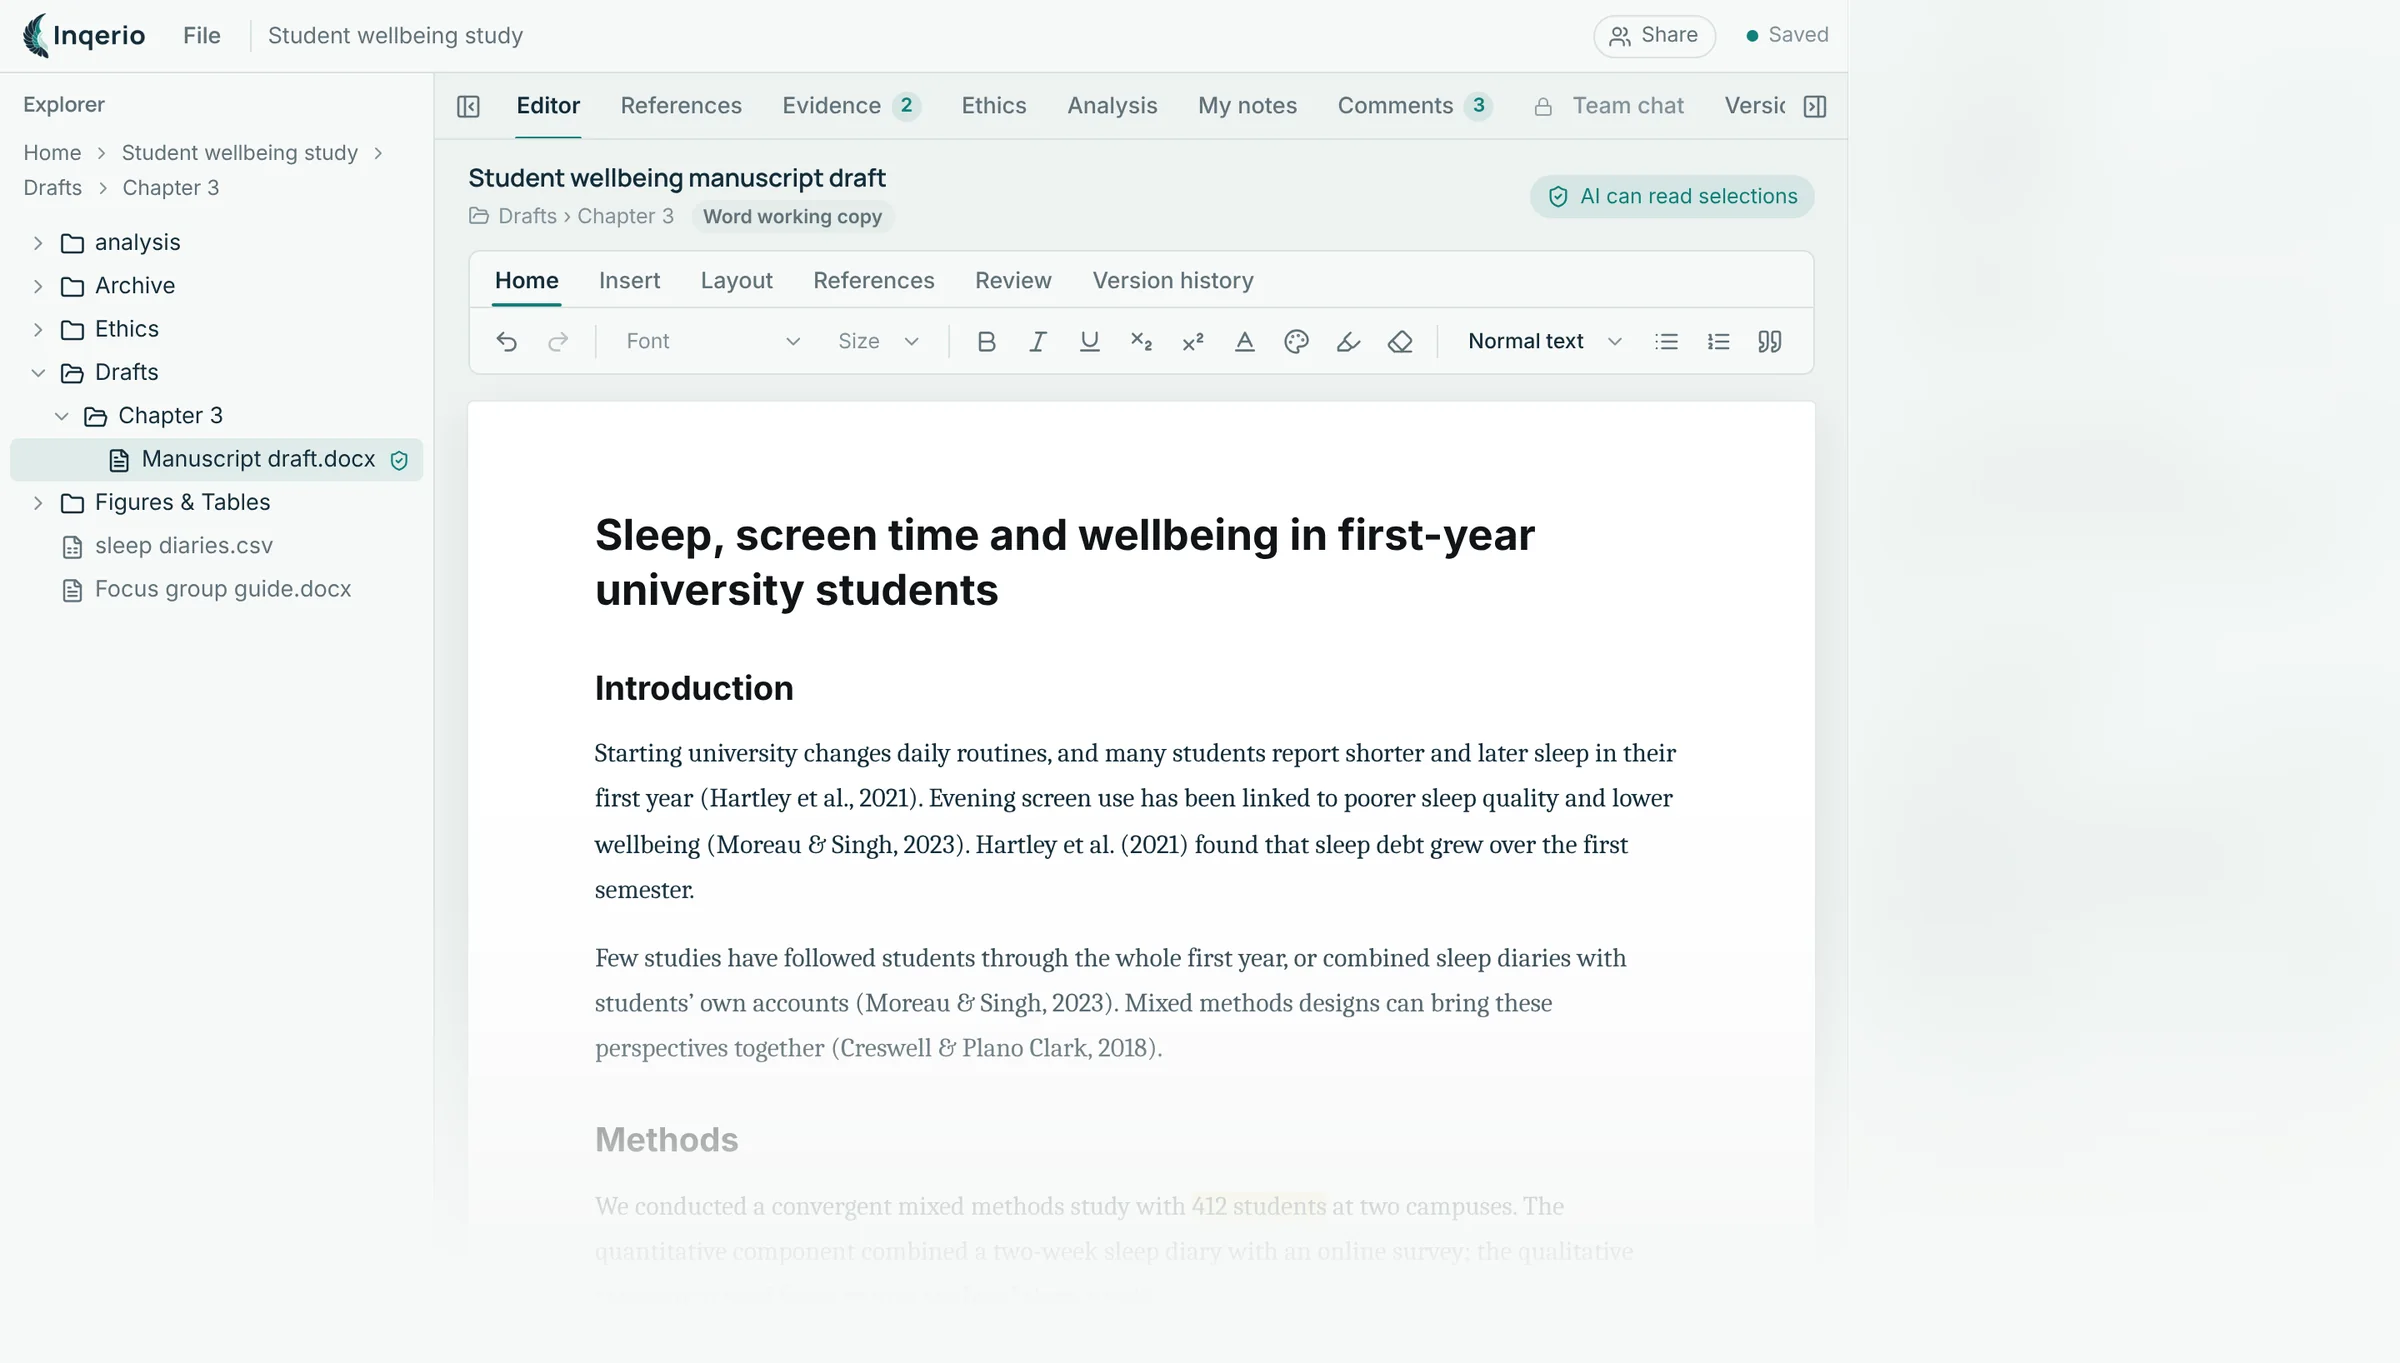
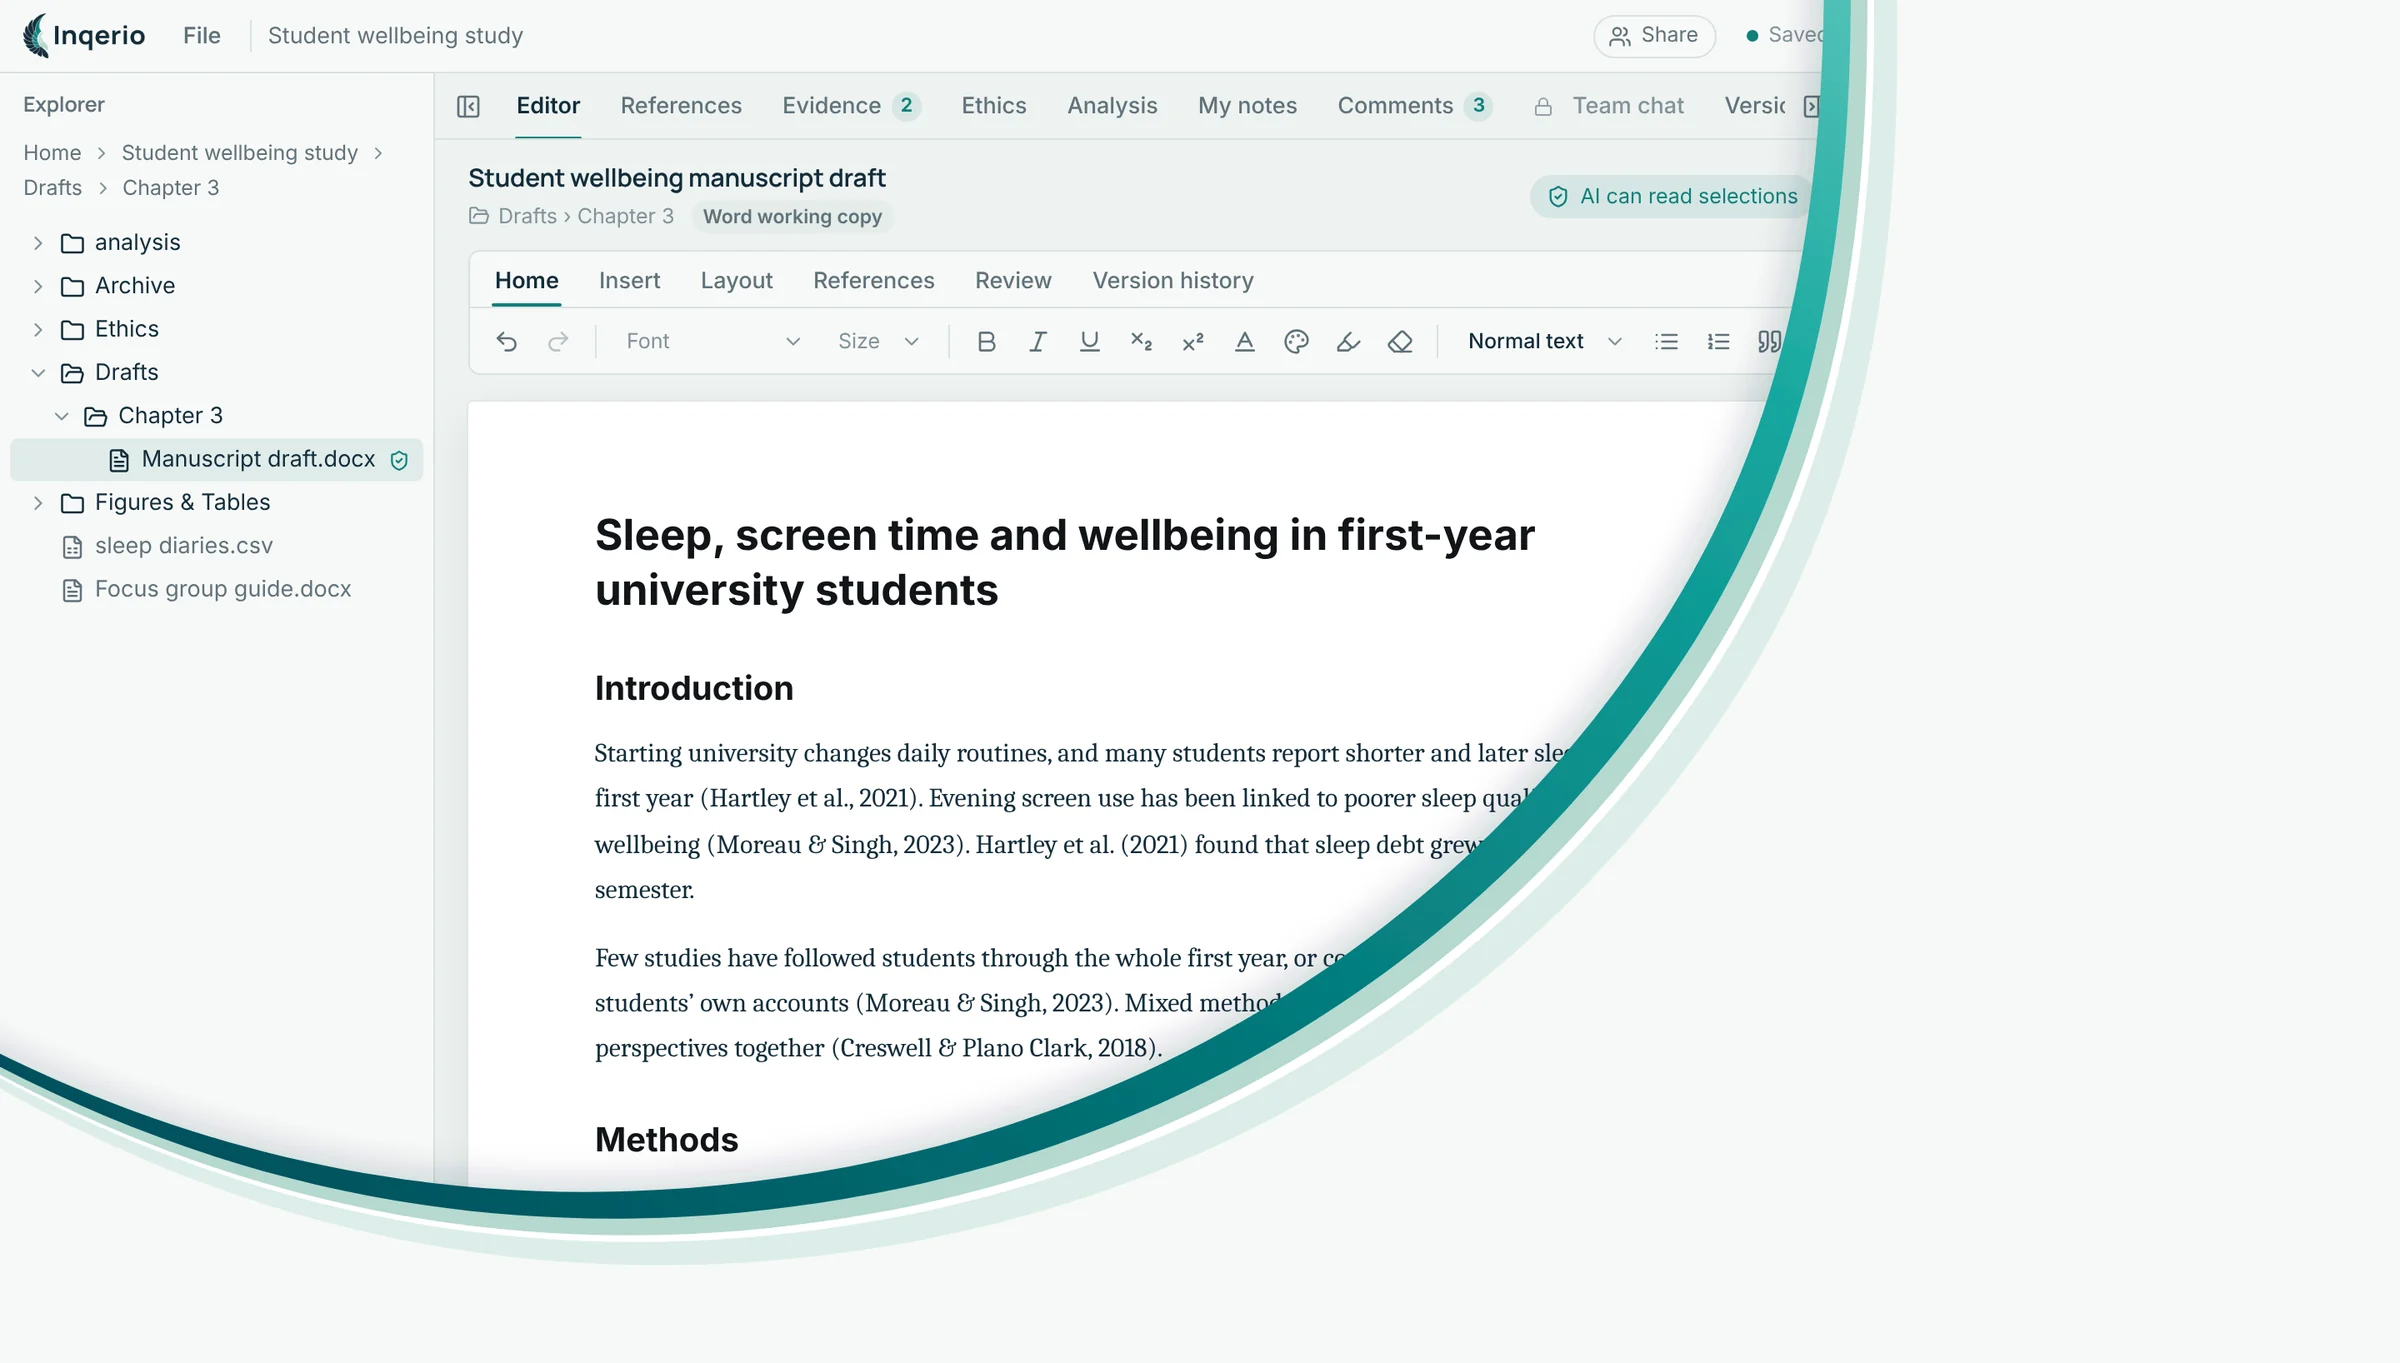
Brand curve over the screenshot

Changed region(s): [[0.0, 0.0, 0.7812, 0.9244], [0.25, 0.6779, 0.3438, 0.7087], [0.375, 0.6779, 0.4062, 0.7087]]

diff --git a/assets/site.css b/assets/site.css
@@ -204,7 +204,7 @@ strong { font-weight: 600; color: var(--navy); }
 .band { position: relative; background: var(--navy); color: #d3e1de; padding: clamp(72px, 9vw, 112px) 0; }
 .band::after { content: ''; position: absolute; left: 0; right: 0; bottom: 0; height: 3px; background: var(--gradient); }
 .band-in { display: grid; grid-template-columns: 1fr 1fr; gap: clamp(40px, 7vw, 112px); align-items: start; }
-.band h2 { color: #fff; font-size: clamp(2.2rem, 4vw, 3.2rem); }
+.band h2 { color: #fff; }
 .band p { font-size: 1.1rem; color: #cfdeda; max-width: 44ch; }
 .band a { color: var(--sage); }
 .band a:hover { color: #fff; }
@@ -232,7 +232,7 @@ strong { font-weight: 600; color: var(--navy); }
 
 .table-wrap { margin-top: 72px; overflow-x: auto; }
 .compare { width: 100%; border-collapse: collapse; font-size: 0.97rem; }
-.compare caption { text-align: left; font-family: var(--serif); font-size: 1.9rem; color: var(--navy); padding-bottom: 18px; }
+.compare caption { text-align: left; font-family: var(--serif); font-size: clamp(1.9rem, 3.2vw, 2.6rem); font-weight: 500; line-height: 1.1; letter-spacing: -0.012em; color: var(--navy); padding-bottom: 18px; }
 .compare th, .compare td { padding: 14px 16px; border-bottom: 1px solid var(--rule); text-align: center; }
 .compare thead th { border-bottom: 1px solid var(--navy); font-weight: 600; color: var(--navy); font-size: 0.92rem; }
 .compare thead th:not(:first-child) { width: 100px; }
@@ -256,12 +256,14 @@ strong { font-weight: 600; color: var(--navy); }
 .cta { background: var(--navy); position: relative; }
 .cta::before { content: ''; position: absolute; inset: 0 0 auto; height: 3px; background: var(--gradient); }
 .cta-in { padding: clamp(64px, 8vw, 96px) 0; display: grid; grid-template-columns: 1fr auto; grid-template-areas: 'h a' 'p a'; gap: 6px 48px; align-items: center; }
-.cta h2 { grid-area: h; color: #fff; margin: 0; font-size: clamp(2rem, 3.6vw, 2.8rem); }
+.cta h2 { grid-area: h; color: #fff; margin: 0; }
 .cta p { grid-area: p; color: #b9cdc9; margin: 0; font-size: 1.05rem; }
 .cta .actions { grid-area: a; }
 
 /* Page heads and legal pages */
-.page-head { padding: clamp(56px, 7vw, 88px) 0 28px; border-bottom: 1px solid var(--navy); }
+.page-head { padding-top: clamp(56px, 7vw, 88px); }
+/* The rule under a page title stops at the content edges, like the rule under section headings. */
+.page-head .wrap { padding-bottom: 28px; border-bottom: 1px solid var(--navy); }
 .page-head h1 { margin-bottom: 14px; }
 .page-head .lead { color: var(--quiet); font-size: 1.08rem; margin: 0; }
 .legal-layout { display: grid; grid-template-columns: 220px minmax(0, 1fr); gap: clamp(40px, 6vw, 96px); align-items: start; }
@@ -277,10 +279,9 @@ strong { font-weight: 600; color: var(--navy); }
 .note { font-size: 0.95rem; color: var(--text); background: rgba(181, 216, 208, 0.3); padding: 14px 18px; border-left: 2px solid var(--teal); }
 .contact-grid { display: grid; grid-template-columns: repeat(3, 1fr); column-gap: 48px; }
 .contact-grid > div { padding-top: 26px; border-top: 1px solid var(--rule); }
-.contact-grid h2 { font-size: 1.6rem; }
+.contact-grid h2 { font-size: 1.65rem; }
 .contact-grid .btn { white-space: normal; text-align: center; }
-.message { max-width: 680px; }
-.message .lead { margin-bottom: 1em; }
+.message { max-width: 68ch; }
 .message .actions { margin-top: 28px; }
 
 /* Footer */
@@ -310,7 +311,7 @@ strong { font-weight: 600; color: var(--navy); }
   .plan:first-child { border-top: 0; }
   .legal-layout { grid-template-columns: 1fr; }
   .toc { position: static; }
-  .contact-grid { grid-template-columns: 1fr; }
+  .contact-grid { grid-template-columns: 1fr; row-gap: 8px; }
   .cta-in { grid-template-columns: 1fr; grid-template-areas: 'h' 'p' 'a'; }
   .cta .actions { margin-top: 20px; }
   .foot-grid { grid-template-columns: 1fr 1fr; }
@@ -356,17 +357,17 @@ strong { font-weight: 600; color: var(--navy); }
   .plan-price { font-size: 2.7rem; }
   .table-wrap { margin-top: 56px; }
   .compare { font-size: 0.9rem; }
-  .compare caption { font-size: 1.6rem; }
   .compare th, .compare td { padding: 12px 6px; }
   .compare thead th:not(:first-child) { width: 50px; }
   .faq { margin-top: 64px; }
   .faq summary { font-size: 1.15rem; padding: 18px 0; }
   .cta-in { padding: 56px 0; }
-  .page-head { padding: 40px 0 22px; }
+  .page-head { padding-top: 40px; }
+  .page-head .wrap { padding-bottom: 22px; }
   .page-head h1 { font-size: 2.5rem; }
   .toc { display: none; }
   .summary { font-size: 1.25rem; }
-  .prose h2 { font-size: 1.45rem; }
+  .prose h2, .contact-grid h2 { font-size: 1.45rem; }
   .foot { padding: 48px 0 24px; }
   .foot-grid { gap: 28px 20px; }
   .foot-base { flex-direction: column; align-items: flex-start; gap: 12px; margin-top: 40px; }

diff --git a/index.html b/index.html
@@ -21,7 +21,7 @@
 <link rel="apple-touch-icon" href="./assets/media/apple-touch-icon.png">
 <link rel="preload" href="./assets/fonts/newsreader-latin-opsz-normal.woff2" as="font" type="font/woff2" crossorigin>
 <link rel="preload" href="./assets/fonts/ibm-plex-sans-latin-wght-normal.woff2" as="font" type="font/woff2" crossorigin>
-<link rel="stylesheet" href="./assets/site.css?v=1b98aab6dc">
+<link rel="stylesheet" href="./assets/site.css?v=fade414d07">
 </head>
 <body>
 <a class="skip" href="#main">Skip to content</a>
@@ -58,8 +58,8 @@
   <div class="wrap">
     <figure class="shot">
       <picture>
-        <source media="(max-width: 720px)" srcset="./assets/media/app-view-mobile.webp" width="900" height="771">
-        <img src="./assets/media/app-view-1440.webp" srcset="./assets/media/app-view-1440.webp 1440w, ./assets/media/app-view-2400.webp 2400w" sizes="(max-width: 1188px) 100vw, 1140px" width="1440" height="818" alt="The Inqerio editor with a project's files and a manuscript open; the side panels are behind frosted glass." loading="eager">
+        <source media="(max-width: 720px)" srcset="./assets/media/app-view-mobile.webp" width="900" height="781">
+        <img src="./assets/media/app-view-1440.webp" srcset="./assets/media/app-view-1440.webp 1440w, ./assets/media/app-view-2400.webp 2400w" sizes="(max-width: 1188px) 100vw, 1140px" width="1440" height="818" alt="The Inqerio editor with a project's files and a manuscript open; a curved band in the brand colours covers the rest of the window." loading="eager">
       </picture>
     </figure>
     <p class="works">Works with R, Python, Stata, SAS and SPSS, with Microsoft Word, and with PubMed, Europe PMC, OpenAlex and Crossref.</p>

diff --git a/thanks/index.html b/thanks/index.html
@@ -21,7 +21,7 @@
 <link rel="apple-touch-icon" href="../assets/media/apple-touch-icon.png">
 <link rel="preload" href="../assets/fonts/newsreader-latin-opsz-normal.woff2" as="font" type="font/woff2" crossorigin>
 <link rel="preload" href="../assets/fonts/ibm-plex-sans-latin-wght-normal.woff2" as="font" type="font/woff2" crossorigin>
-<link rel="stylesheet" href="../assets/site.css?v=1b98aab6dc">
+<link rel="stylesheet" href="../assets/site.css?v=fade414d07">
 </head>
 <body>
 <a class="skip" href="#main">Skip to content</a>
@@ -41,12 +41,14 @@
 </header>
 <main id="main" class="page-thanks">
 
-<section class="section">
-  <div class="wrap message">
+<section class="page-head"><div class="wrap">
     <h1>Thank you for subscribing.</h1>
     <p class="lead">Your payment went through. You can close this page and return to Inqerio: your plan unlocks there by itself within a few seconds.</p>
+  </div></section>
+<section class="section section-tight">
+  <div class="wrap"><div class="message">
     <p>Stripe emails you a receipt. If the plan has not appeared after a minute, open Your account in the app and choose Check now, or <a href="../contact/">contact us</a>.</p>
-  </div>
+  </div></div>
 </section>
 </main>
 <footer class="foot">

diff --git a/404.html b/404.html
@@ -21,7 +21,7 @@
 <link rel="apple-touch-icon" href="/assets/media/apple-touch-icon.png">
 <link rel="preload" href="/assets/fonts/newsreader-latin-opsz-normal.woff2" as="font" type="font/woff2" crossorigin>
 <link rel="preload" href="/assets/fonts/ibm-plex-sans-latin-wght-normal.woff2" as="font" type="font/woff2" crossorigin>
-<link rel="stylesheet" href="/assets/site.css?v=1b98aab6dc">
+<link rel="stylesheet" href="/assets/site.css?v=fade414d07">
 </head>
 <body>
 <a class="skip" href="#main">Skip to content</a>
@@ -41,12 +41,14 @@
 </header>
 <main id="main" class="page-404">
 
-<section class="section">
-  <div class="wrap message">
+<section class="page-head"><div class="wrap">
     <h1>Page not found.</h1>
     <p class="lead">This page does not exist or has moved.</p>
+  </div></section>
+<section class="section section-tight">
+  <div class="wrap"><div class="message">
     <p class="actions"><a class="btn" href="/">Go to the home page</a><a class="btn btn-ghost" href="/contact/">Contact us</a></p>
-  </div>
+  </div></div>
 </section>
 </main>
 <footer class="foot">

diff --git a/contact/index.html b/contact/index.html
@@ -21,7 +21,7 @@
 <link rel="apple-touch-icon" href="../assets/media/apple-touch-icon.png">
 <link rel="preload" href="../assets/fonts/newsreader-latin-opsz-normal.woff2" as="font" type="font/woff2" crossorigin>
 <link rel="preload" href="../assets/fonts/ibm-plex-sans-latin-wght-normal.woff2" as="font" type="font/woff2" crossorigin>
-<link rel="stylesheet" href="../assets/site.css?v=1b98aab6dc">
+<link rel="stylesheet" href="../assets/site.css?v=fade414d07">
 </head>
 <body>
 <a class="skip" href="#main">Skip to content</a>

diff --git a/pricing/index.html b/pricing/index.html
@@ -21,7 +21,7 @@
 <link rel="apple-touch-icon" href="../assets/media/apple-touch-icon.png">
 <link rel="preload" href="../assets/fonts/newsreader-latin-opsz-normal.woff2" as="font" type="font/woff2" crossorigin>
 <link rel="preload" href="../assets/fonts/ibm-plex-sans-latin-wght-normal.woff2" as="font" type="font/woff2" crossorigin>
-<link rel="stylesheet" href="../assets/site.css?v=1b98aab6dc">
+<link rel="stylesheet" href="../assets/site.css?v=fade414d07">
 </head>
 <body>
 <a class="skip" href="#main">Skip to content</a>

diff --git a/privacy/index.html b/privacy/index.html
@@ -21,7 +21,7 @@
 <link rel="apple-touch-icon" href="../assets/media/apple-touch-icon.png">
 <link rel="preload" href="../assets/fonts/newsreader-latin-opsz-normal.woff2" as="font" type="font/woff2" crossorigin>
 <link rel="preload" href="../assets/fonts/ibm-plex-sans-latin-wght-normal.woff2" as="font" type="font/woff2" crossorigin>
-<link rel="stylesheet" href="../assets/site.css?v=1b98aab6dc">
+<link rel="stylesheet" href="../assets/site.css?v=fade414d07">
 </head>
 <body>
 <a class="skip" href="#main">Skip to content</a>

diff --git a/refunds/index.html b/refunds/index.html
@@ -21,7 +21,7 @@
 <link rel="apple-touch-icon" href="../assets/media/apple-touch-icon.png">
 <link rel="preload" href="../assets/fonts/newsreader-latin-opsz-normal.woff2" as="font" type="font/woff2" crossorigin>
 <link rel="preload" href="../assets/fonts/ibm-plex-sans-latin-wght-normal.woff2" as="font" type="font/woff2" crossorigin>
-<link rel="stylesheet" href="../assets/site.css?v=1b98aab6dc">
+<link rel="stylesheet" href="../assets/site.css?v=fade414d07">
 </head>
 <body>
 <a class="skip" href="#main">Skip to content</a>

diff --git a/terms/index.html b/terms/index.html
@@ -21,7 +21,7 @@
 <link rel="apple-touch-icon" href="../assets/media/apple-touch-icon.png">
 <link rel="preload" href="../assets/fonts/newsreader-latin-opsz-normal.woff2" as="font" type="font/woff2" crossorigin>
 <link rel="preload" href="../assets/fonts/ibm-plex-sans-latin-wght-normal.woff2" as="font" type="font/woff2" crossorigin>
-<link rel="stylesheet" href="../assets/site.css?v=1b98aab6dc">
+<link rel="stylesheet" href="../assets/site.css?v=fade414d07">
 </head>
 <body>
 <a class="skip" href="#main">Skip to content</a>
